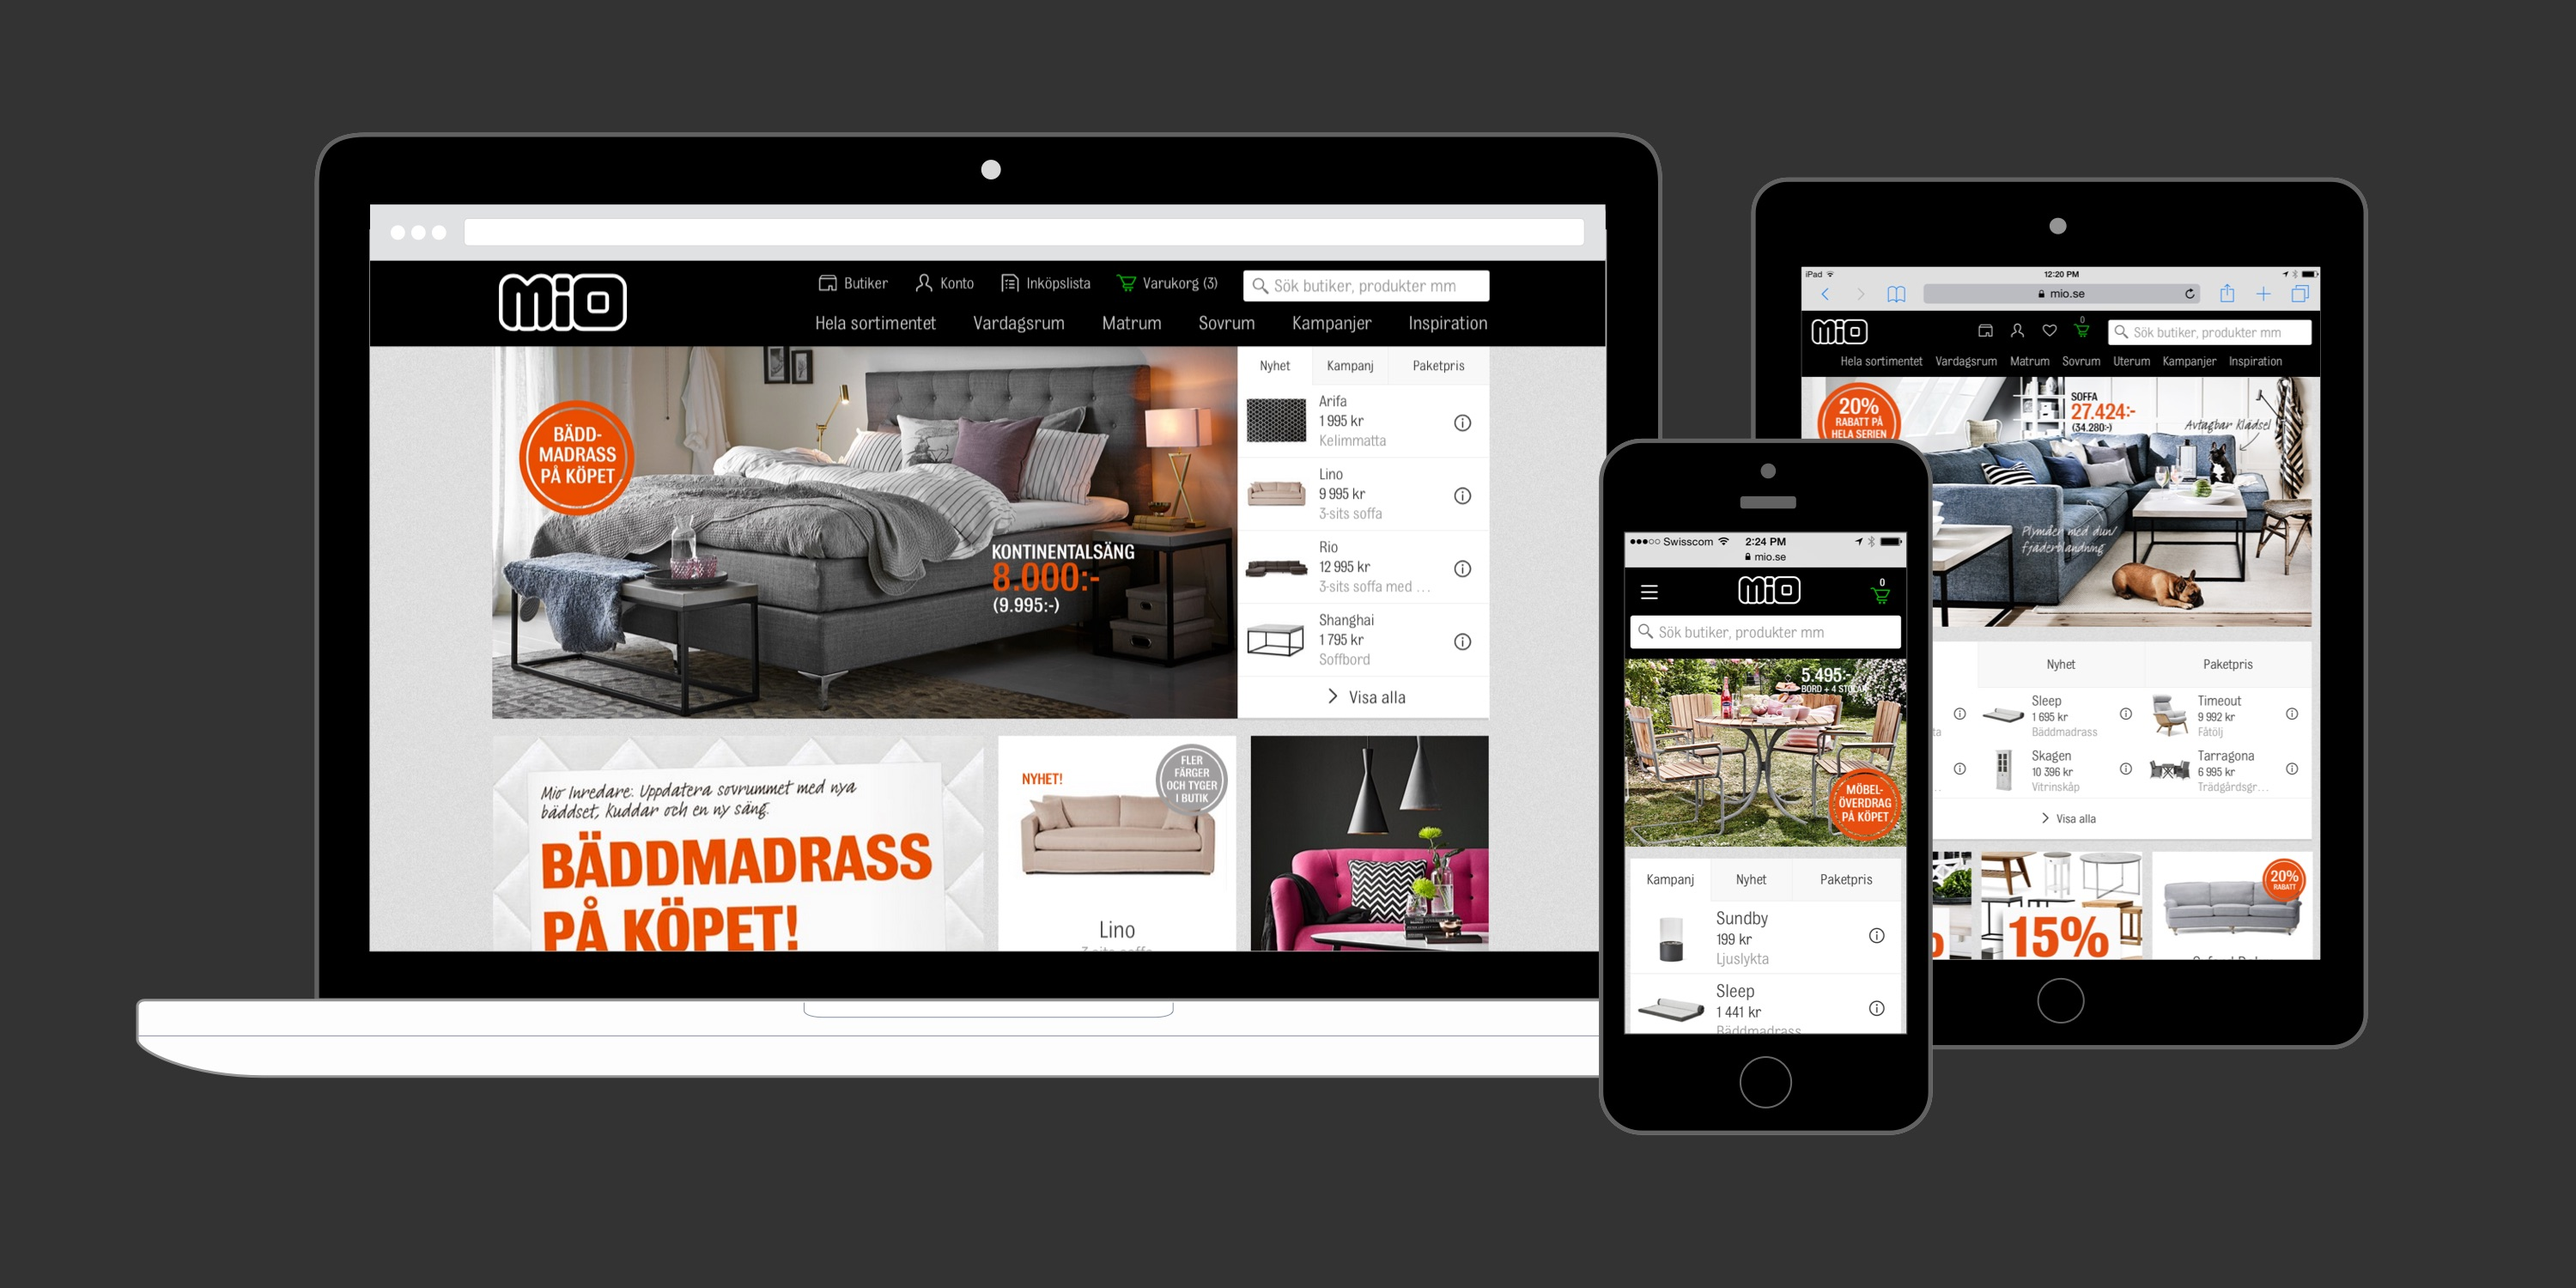
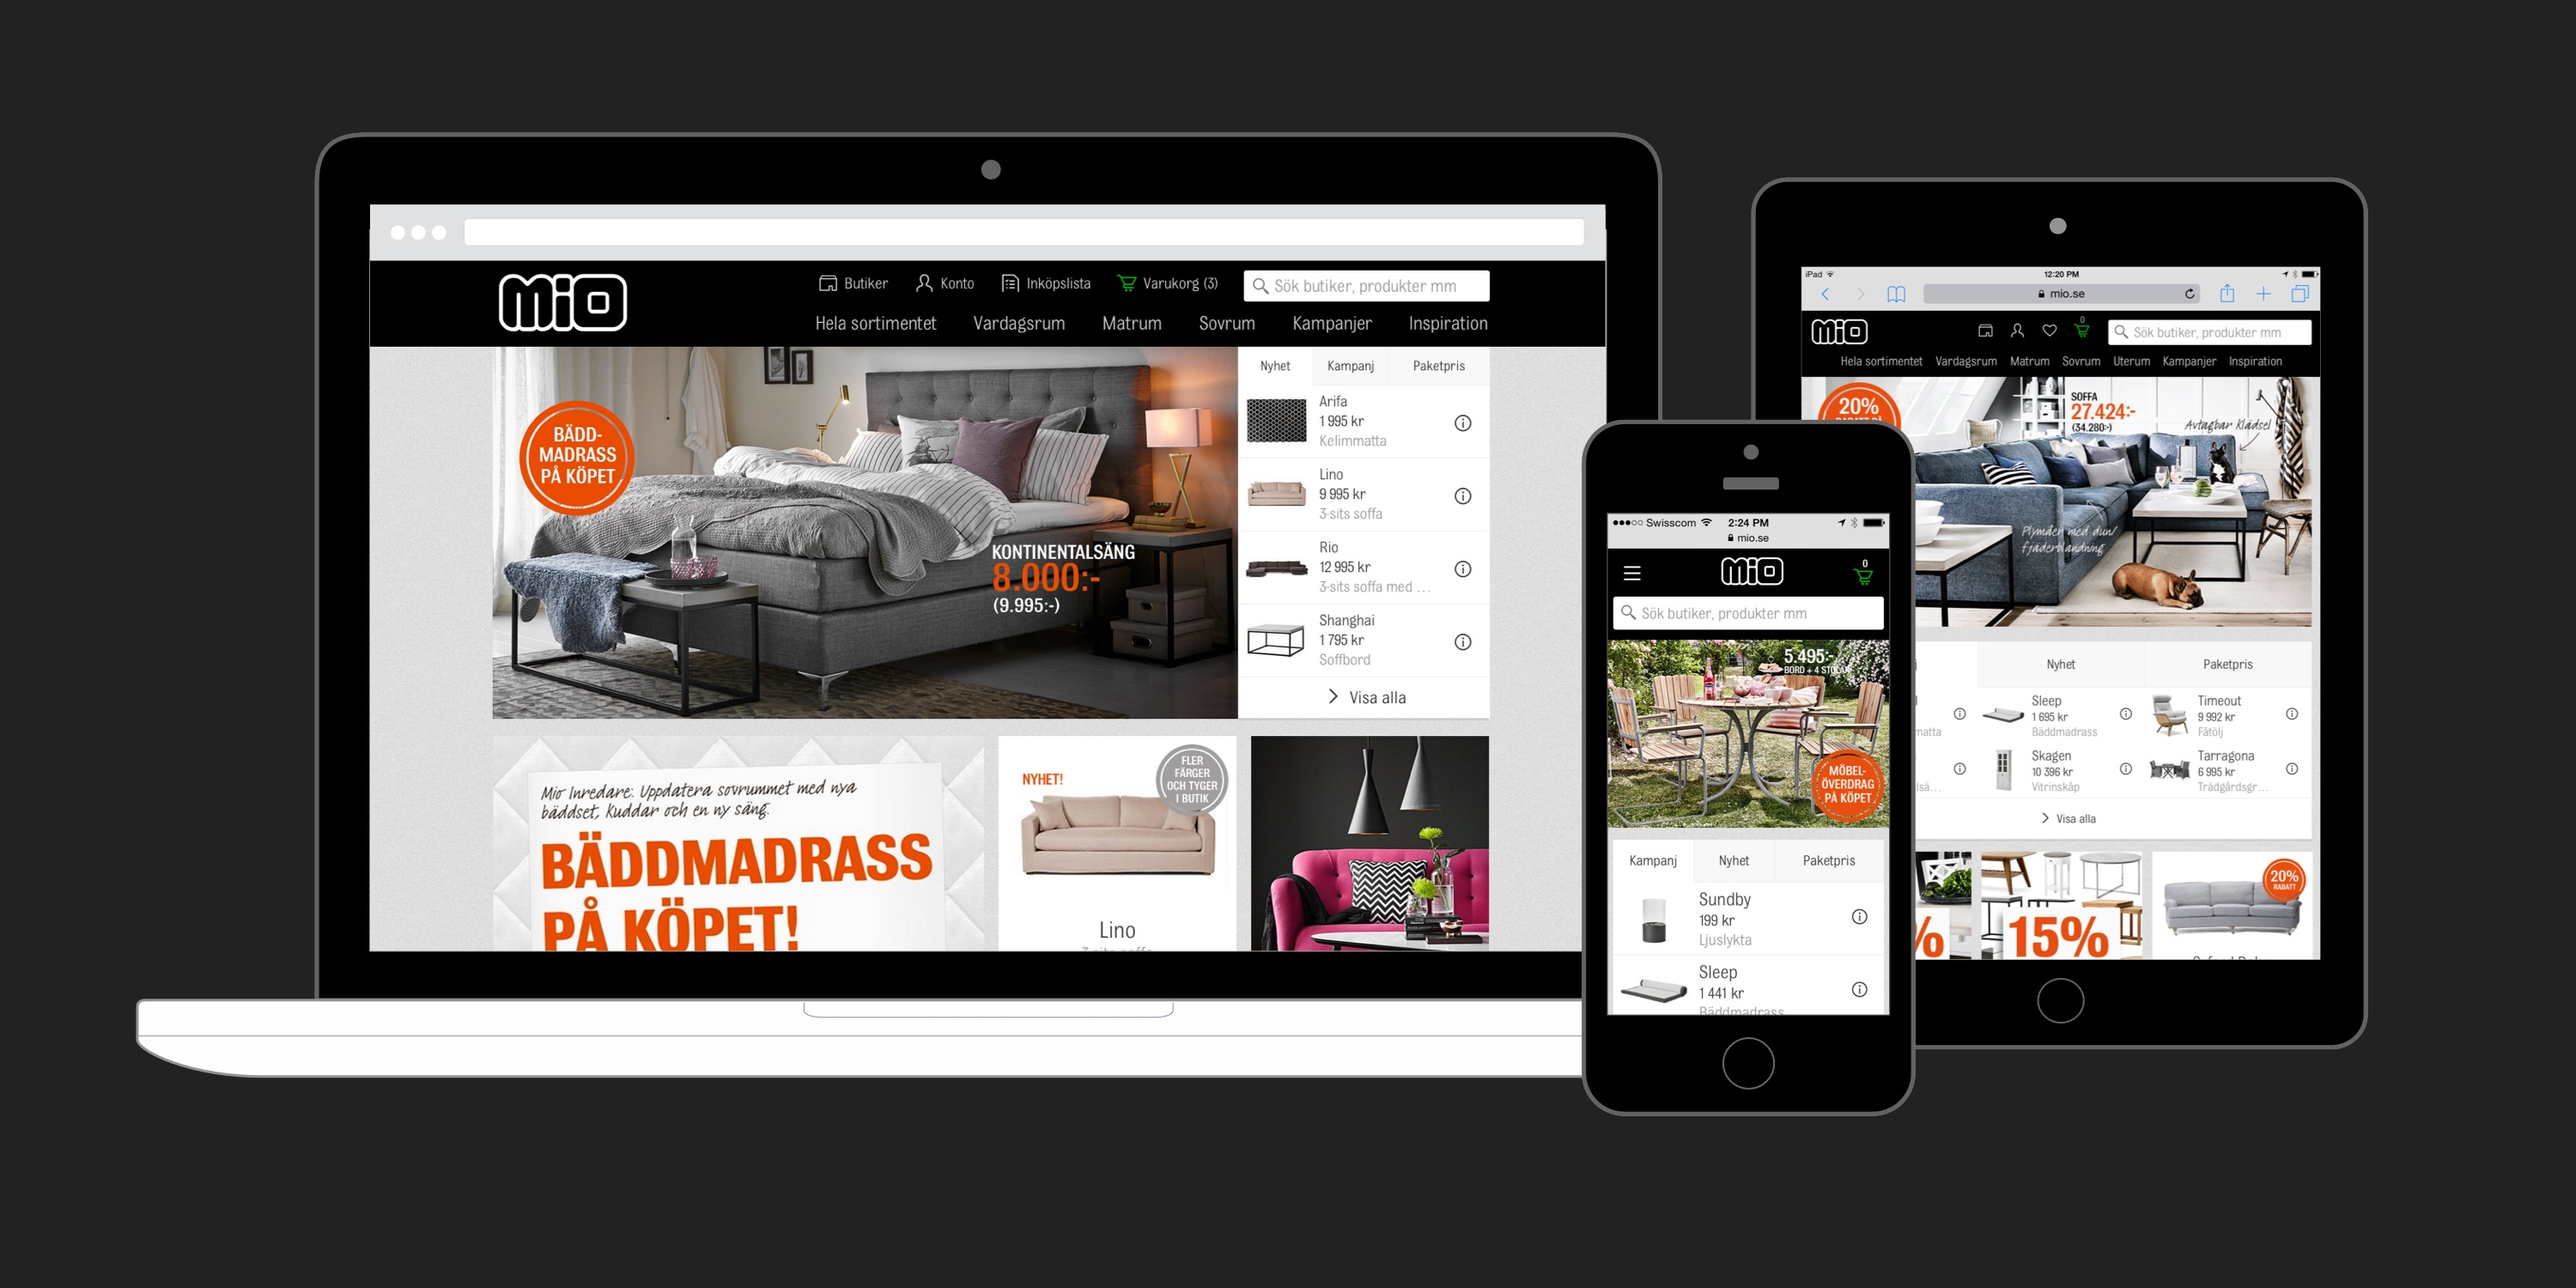
New colors in sidebar.

diff --git a/app/_scss/components/header-brand.scss b/app/_scss/components/header-brand.scss
@@ -5,10 +5,20 @@
   font-size: $f20px;
   padding: 0 1.1em;
   display: inline-block;
-  //text-transform: none;
+
+  @include breakpoint(desktop-sm) {
+  padding-top: .5em;
+  padding-bottom: .5em; 
+
+    &.active {
+      border-left: 10px solid $profile-text;
+      margin-left: -10px;
+    }
+  } 
 
   @include breakpoint(desktop-lg) {
-    padding: 0 1.4em;
+    padding-left: 1.4em;
+    padding-right: 1.4em;
   } 
 
   a {
@@ -29,27 +39,22 @@
   }
 
   .title {
-    font-size: 1rem;
+    font-size: 1.3rem;
     transition: all .2s ease-in-out;
     color: #fff;
-    //text-transform: none;
+    font-family: $font-sans;
+
+
+
+    .last {
+      font-size: .97em;
+      font-family: $font-sans-bold;
+    }
 
     @include breakpoint(desktop-sm) {
-      font-size: .95rem;
-      font-family: $font-sans;
-
-      .first {
-
-      }
-
-      .last {
-        //color: $profile-text;
-        font-family: $font-sans-bold;
-      }
-    } 
-
-    @include breakpoint(desktop-lg) {
-      font-size: 1.1rem;
+      color: #fff;
+      margin-bottom: .3em;
+      display: block;
     } 
   }
 
@@ -58,11 +63,12 @@
     text-transform: none;
     margin-top: .25em;
     font-size: .9rem;
-    color: #bbb;
+    color: #888;
     font-family: $font-sans;
 
     @include breakpoint(desktop-sm) {
       font-size: .83rem;
+      color: #bbb;
     } 
 
     @include breakpoint(desktop-lg) {
@@ -73,4 +79,14 @@
 
 .top-bar h1 {
   padding: 0;
+
+  .title {
+    font-family: $font-header;
+    color: #777;
+    font-size: 1rem;
+
+    .last {
+      font-family: $font-header;
+    }
+  }
 }

diff --git a/app/_includes/header.html b/app/_includes/header.html
@@ -1,5 +1,5 @@
 <header class="header-global">
-  <h1>
+  <h1 {% if page.title == "Front-end Web Developer" %} class="active" {% endif %}>
     <a href="/">
       <span class="title"><span class="first">Johannes</span> <span class="last">Holmberg</span></span> 
       <span class="role">Front-end Web Developer</span>
@@ -15,7 +15,7 @@
   <div class="wrap">
     <a href="#" class="menu-trigger" id="js-menu-trigger"></a>
     <h1>
-      <a href="/"><span class="title">Johannes Holmberg</span> <span class="role">Front-end Web Developer</span></a>
+      <a href="/"><span class="title"><span class="first">Johannes</span> <span class="last">Holmberg</span></span> <span class="role">Front-end Web Developer</span></a>
     </h1>
   </div>      
 </div>

diff --git a/gulpfile.js b/gulpfile.js
@@ -333,7 +333,7 @@ gulp.task('case-images', function() {
     .pipe(gulp.dest(dest));
 
   // Case images
-  source = 'assets/images/work/cases/*';
+  source = 'app/assets/images/work/cases/*';
   gulp.src(source)
     .pipe(imageResize({
       width: 1220,
@@ -390,7 +390,7 @@ gulp.task('case-images', function() {
     .pipe(gulp.dest(dest));
 
   // Cover images
-  source = 'assets/images/work/covers/*';
+  source = 'app/assets/images/work/covers/*';
   gulp.src(source)
     .pipe(imageResize({
       width: 3000,

diff --git a/app/_includes/navigation.html b/app/_includes/navigation.html
@@ -1,7 +1,4 @@
 <ul>
-  <li class="nav-item">
-    <a href="/" {% if page.title == "Front-end Web Developer" %} class="active" {% endif %}>Home</a>
-  </li>
 
   <li class="nav-item">
     <a href="/journal"{% if page.title == "Journal" %} class="active" {% elsif page.category == 'article' %} class="active" {% elsif page.category == 'travel' %} class="active" {% elsif page.active == "journal" %} class="active" {% endif %}>Journal</a>

diff --git a/app/_scss/__constants.scss b/app/_scss/__constants.scss
@@ -3,9 +3,9 @@
 $profile-light: 	#accce3;
 $profile-bg:      #3997d2;
 //$profile-bg:      #e26458;
-$profile-text: 		#326891;
+//$profile-text: 		#326891;
 //$profile-text:    #e26458;
-$profile-text:    #ee423c;
+//$profile-text:    #ee423c;
 $profile-text:    #3977b8;
 
 $whitesmoke: 			#f4f4f4;

diff --git a/app/_scss/_layout.scss b/app/_scss/_layout.scss
@@ -46,7 +46,8 @@ main {
   &:after {
     content: '';
     display: block;
-    background: #222;
+    background: url('../images/giphy.gif') center center no-repeat #000;
+    background-size: 40px;
     width: 100%;
     height: 4em;
   }

diff --git a/app/_scss/components/nav-primary.scss b/app/_scss/components/nav-primary.scss
@@ -20,7 +20,7 @@
     text-decoration: none;
 
     @include breakpoint(desktop-sm) {
-      color: #ddd;
+      color: #eee;
       padding: .9em 0 .9em 1.65em;
       font-size: .9rem;
     }

diff --git a/app/_posts/cases/2014-12-28-scenkonst.md b/app/_posts/cases/2014-12-28-scenkonst.md
@@ -7,7 +7,7 @@ permalink: work/scenkonst
 cover: scenkonst
 year: 2014
 responsibilities: 'Production Manager, WordPress, Front-end'
-color: '#258084'
+color: '#3a77b8'
 mode: 'dark'
 live: 'http://scenkonstvasternorrland.se'
 description: 'Scenkonst Västernorrland (The Stage Company) was in great need of refurbishing their digital presence to reach a wider audience. The challenge was to have all their 6 sub departments in music, film, theater and dance (each with its own brand) to play together and be part of the whole solution.'

diff --git a/app/_posts/cases/2014-01-20-mio.md b/app/_posts/cases/2014-01-20-mio.md
@@ -7,7 +7,7 @@ permalink: work/mio
 cover: mio
 year: 2013
 responsibilities: 'Responsive strategy, Front-end'
-color: '#333'
+color: '#222'
 mode: 'dark'
 live: 'http://mio.se'
 description: 'In 2013 I got the opportunity to work on the frontend for Mio’s new e-commerce website. It was a complete overhaul with a responsive foundation. During the process I worked tightly with a team of skilled engineers and backend developers from Valtech and Enferno.'
